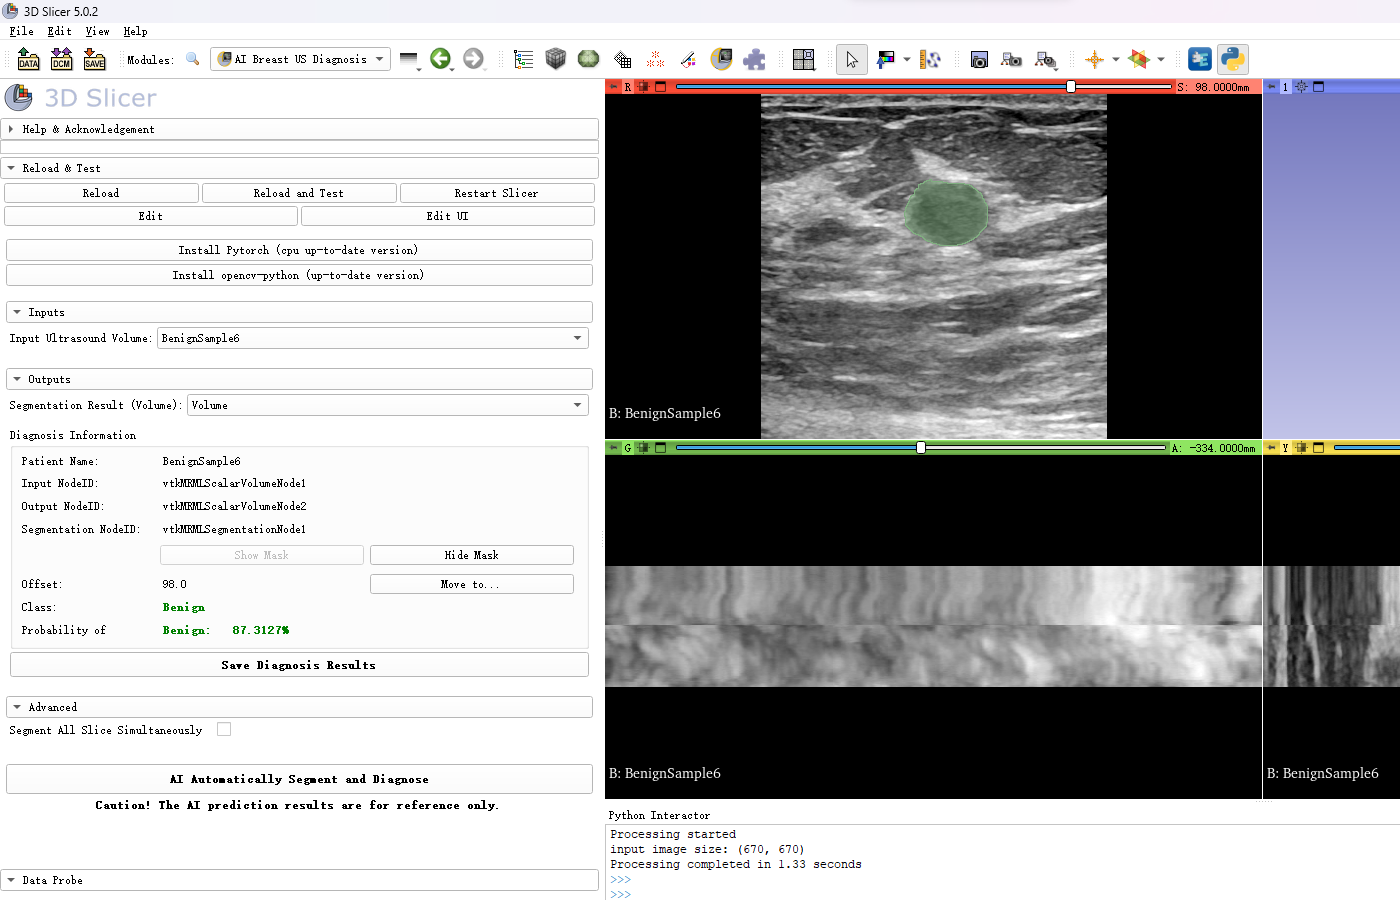
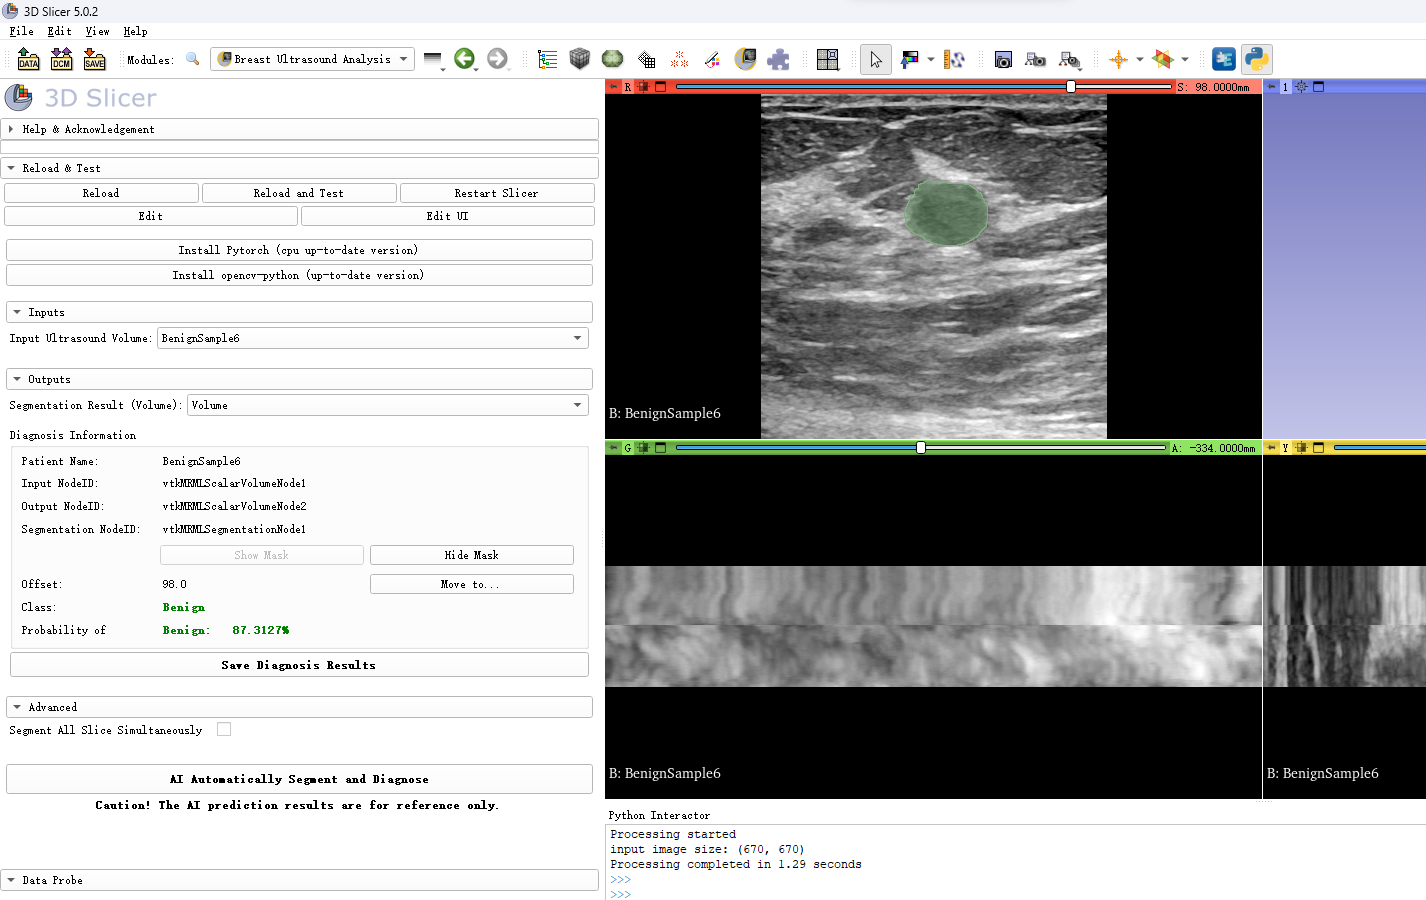
name change

diff --git a/BUS_Diagnosis/BUS_Diagnosis.py b/BUS_Diagnosis/BUS_Diagnosis.py
@@ -43,7 +43,7 @@ class BUS_Diagnosis(ScriptedLoadableModule):
 
   def __init__(self, parent):
     ScriptedLoadableModule.__init__(self, parent)
-    self.parent.title = "AI Breast US Diagnosis"  # TODO: make this more human readable by adding spaces
+    self.parent.title = "Breast Ultrasound Analysis"  # TODO: make this more human readable by adding spaces
     self.parent.categories = ["Utilities"]  # TODO: set categories (folders where the module shows up in the module selector)
     self.parent.dependencies = []  # TODO: add here list of module names that this module requires
     self.parent.contributors = ["Yi Zhang (Chongqing University, China), Xiaojun Chen (Shanghai Jiao Tong University, China)"]  # TODO: replace with "Firstname Lastname (Organization)"
@@ -52,7 +52,7 @@ class BUS_Diagnosis(ScriptedLoadableModule):
 This module is designed to help physicians diagnose intramammary lesions based on breast ultrasound images with nodules. 
 Based on the DICOM ultrasound image imported into 3D Slicer, 
 this module can segment the nodule from the image and predict whether the nodule is malignant through its built-in AI algorithm.
-See more information in https://github.com/ZhyBrian/SlicerAIAssistedBUSDiagnosis
+See more information in https://github.com/ZhyBrian/SlicerBreastUltrasoundAnalysis
 """
     # TODO: replace with organization, grant and thanks
     self.parent.acknowledgementText = """

diff --git a/README.md b/README.md
@@ -1,10 +1,10 @@
-# AI Breast US Diagnosis Extension for 3D Slicer
+# Breast Ultrasound Analysis Extension for 3D Slicer
 
 This extension currently contains only one module, which has the same name as the extension name.
 
 
 
-## Module: AI Breast US Diagnosis
+## Module: Breast Ultrasound Analysis
 
 <img src="./BUS_Diagnosis.png" alt="BUS_Diagnosis"/>
 
